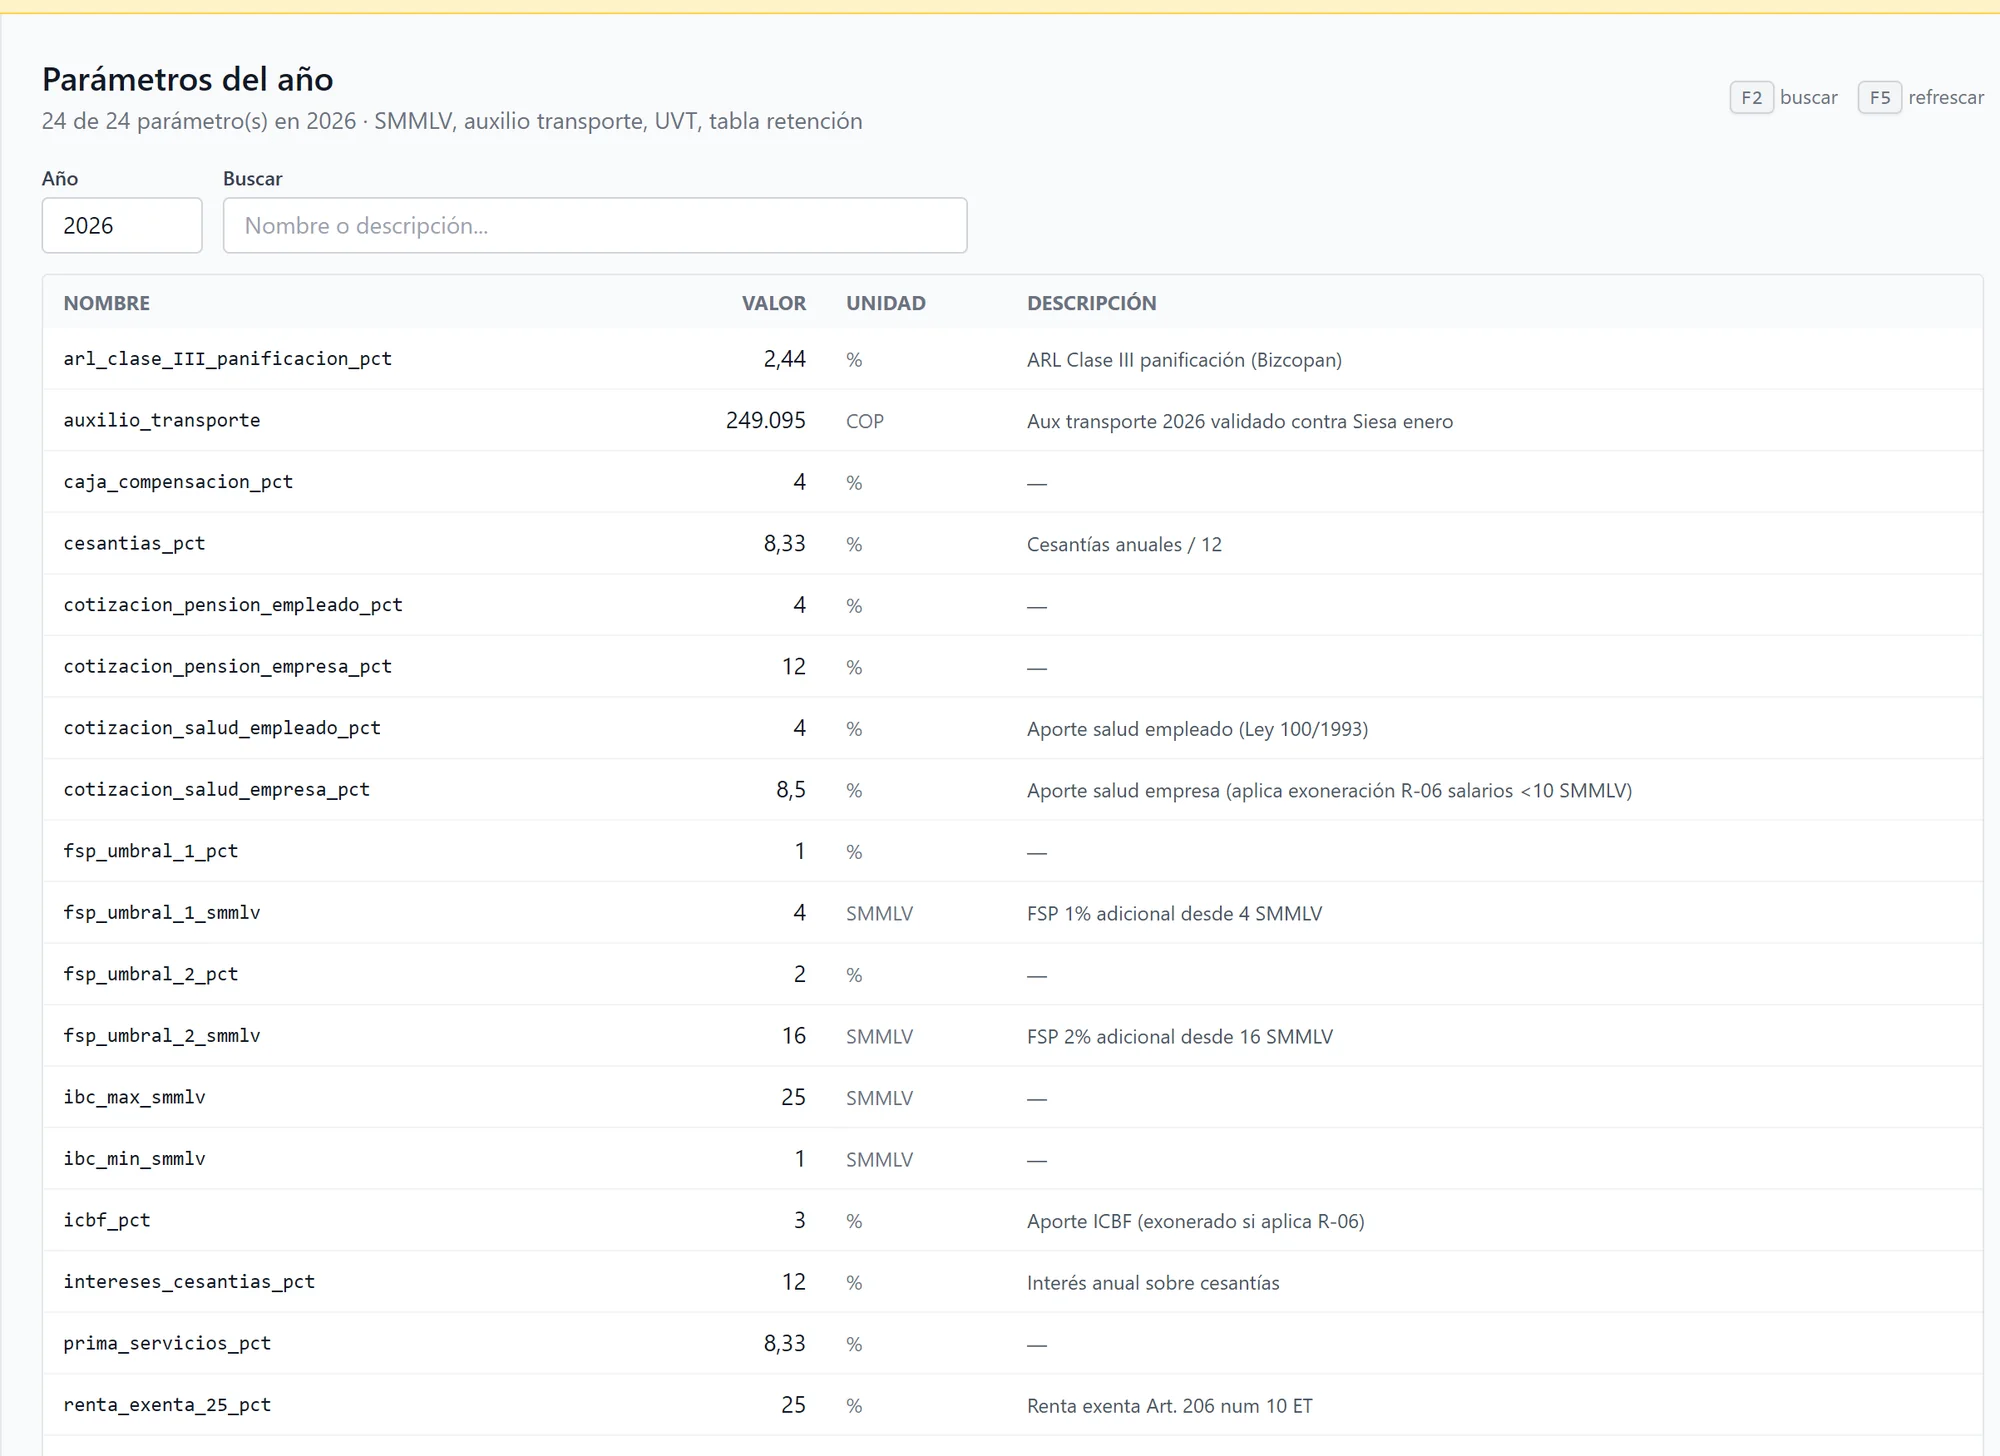
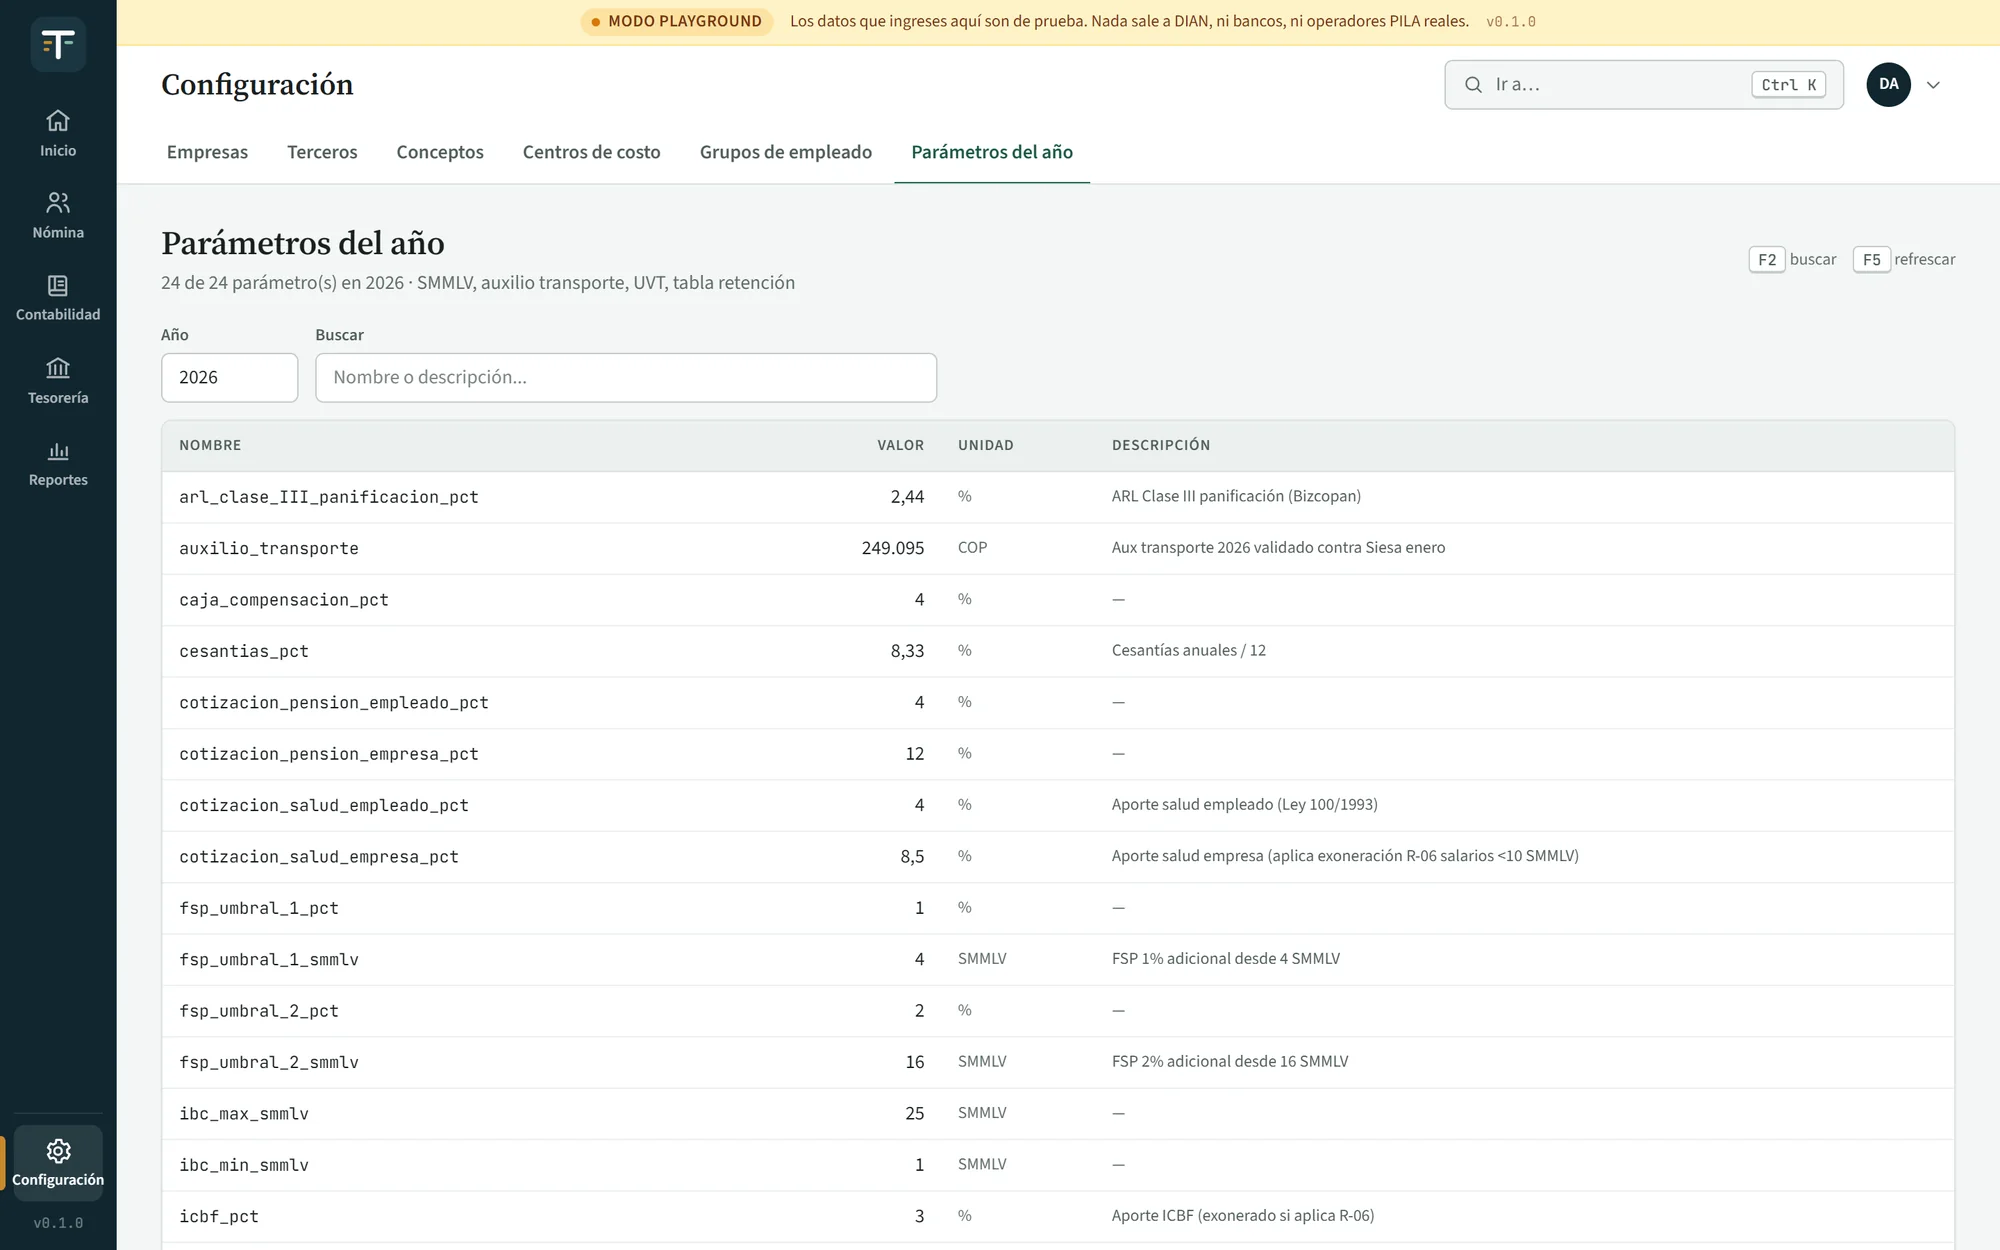
Work: new screenshots of the three redesigned systems
- Payroll & accounting: the "libro mayor" interface — live draft, dark
  vouchers, novelty dialog, and a new gallery (home with the month-end
  route, Ctrl K "Go to…", chart of accounts, yearly parameters, reports).
  Fictional employees on a disposable instance, as before.
- Calzado Leons: the new home dashboard (demo data).
- Louloz Inventario moves from the archive to its own card, with three
  phone screens from the public production view.
- More work grid re-paced for seven cards.
- Chapter titles no longer clip accented capitals (MÁS, MÍ, NÓ…).

diff --git a/src/content/projects.ts b/src/content/projects.ts
@@ -12,9 +12,10 @@ import payrollCover from "./work/payroll-accounting/cover.webp";
 import payrollVoucher from "./work/payroll-accounting/voucher.webp";
 import payrollOvertime from "./work/payroll-accounting/overtime-modal.webp";
 import payrollAccounts from "./work/payroll-accounting/chart-of-accounts.webp";
-import payrollConcepts from "./work/payroll-accounting/concepts.webp";
 import payrollParameters from "./work/payroll-accounting/parameters.webp";
-import payrollList from "./work/payroll-accounting/payrolls.webp";
+import payrollHome from "./work/payroll-accounting/home.webp";
+import payrollGoTo from "./work/payroll-accounting/go-to.webp";
+import payrollReports from "./work/payroll-accounting/reports.webp";
 
 import hotelCover from "./work/hotel-logistico/cover.webp";
 import hotelMobile from "./work/hotel-logistico/mobile.webp";
@@ -46,6 +47,9 @@ import invProducts from "./work/raw-materials-inventory/products.webp";
 import invPrintable from "./work/raw-materials-inventory/printable.webp";
 
 import planningCover from "./work/leons-planning/cover.webp";
+import loulozList from "./work/louloz-inventory/list.webp";
+import loulozFilters from "./work/louloz-inventory/filters.webp";
+import loulozSizes from "./work/louloz-inventory/sizes.webp";
 import groomersCover from "./work/groomers-house/cover.webp";
 import progressDashboard from "./work/myprogress/dashboard.webp";
 import progressStats from "./work/myprogress/stats.webp";
@@ -172,8 +176,8 @@ export const featured: FeaturedProject[] = [
               src: payrollCover,
               position: "left top",
               alt: L(
-                "Live payroll draft for the first fortnight of September: eight employees with hours, earnings, deductions and net pay; one row expanded into its concept lines.",
-                "Borrador vivo de la nómina de la primera quincena de septiembre: ocho empleados con horas, devengos, deducciones y neto; una fila desplegada en sus conceptos.",
+                "Live draft of the first September fortnight in the ledger-style interface: section rail and tabs, eight employees with hours, earnings, deductions and net pay, one row expanded into its concept lines and the totals pinned at the bottom.",
+                "Borrador vivo de la primera quincena de septiembre en la interfaz tipo libro mayor: riel de secciones y pestañas, ocho empleados con horas, devengos, deducciones y neto, una fila desplegada en sus conceptos y los totales fijos abajo.",
               ),
             },
           },
@@ -189,8 +193,8 @@ export const featured: FeaturedProject[] = [
               src: payrollVoucher,
               position: "left top",
               alt: L(
-                "Accounting vouchers generated by the payroll run, with one voucher open showing equal debits and credits.",
-                "Comprobantes contables generados por la liquidación, con uno abierto que muestra débitos y créditos iguales.",
+                "Accounting vouchers generated by the payroll run, in the dark theme: one open with equal debits and credits and its eight lines.",
+                "Comprobantes contables generados por la liquidación, en tema oscuro: uno abierto con débitos y créditos iguales y sus ocho líneas.",
               ),
             },
           },
@@ -200,8 +204,8 @@ export const featured: FeaturedProject[] = [
               src: payrollOvertime,
               position: "left top",
               alt: L(
-                "Dialog to add overtime to an employee: hours, ordinary hourly rate filled automatically, surcharge factor and cost center.",
-                "Diálogo para agregar horas extras a un empleado: horas, valor de la hora ordinaria calculado, factor de recargo y centro de costo.",
+                "Dialog to add a novelty to an employee: earnings and deductions tabs, and for overtime the hours, the ordinary hourly rate filled automatically, the surcharge factor and the cost center.",
+                "Diálogo para agregar una novedad a un empleado: pestañas de devengos y deducciones y, para horas extras, las horas, el valor de la hora ordinaria calculado, el factor de recargo y el centro de costo.",
               ),
             },
           },
@@ -226,6 +230,7 @@ export const featured: FeaturedProject[] = [
         L("DIAN electronic payroll: UBL XML, XAdES signature and transmission tracking", "Nómina electrónica DIAN: XML UBL, firma XAdES y seguimiento de transmisiones"),
         L("PILA flat files with integrity hash, payment batches and bank flat files", "Planillas PILA con hash de integridad, lotes de pago y archivos planos bancarios"),
         L("Employee inquiry by period, opening balances imported from Excel, month-end closing", "Consulta de empleado por periodo, saldos iniciales importados desde Excel y cierre mensual"),
+        L("A ledger-style interface in light and dark: section rail, tabs, grouped processes and a Ctrl K “Go to…” search", "Una interfaz tipo libro mayor en claro y oscuro: riel de secciones, pestañas, procesos agrupados y buscador «Ir a…» con Ctrl K"),
       ],
       engineering: [
         {
@@ -281,14 +286,14 @@ export const featured: FeaturedProject[] = [
       ),
       gallery: [
         {
-          src: payrollList,
-          alt: L("List of payrolls with status badge, period, total and number of employees.", "Lista de nóminas con estado, periodo, total y número de empleados."),
-          caption: L("Payrolls, Siigo-style: a named draft per fortnight.", "Nóminas al estilo Siigo: un borrador con nombre por quincena."),
+          src: payrollHome,
+          alt: L("Home screen in the dark theme: shortcuts to the daily tasks and the seven steps of the month-end route, next to the keyboard shortcuts.", "Pantalla de inicio en tema oscuro: accesos directos a las tareas del día y los siete pasos de la ruta del cierre mensual, junto a los atajos de teclado."),
+          caption: L("Home: shortcuts for the day and the month-end route, step by step.", "Inicio: accesos directos del día y la ruta del cierre mensual, paso a paso."),
         },
         {
-          src: payrollConcepts,
-          alt: L("Catalog of payroll concepts with code, name, type (earning or deduction) and accounting nature.", "Catálogo de conceptos de nómina con código, nombre, tipo (devengo o deducción) y naturaleza contable."),
-          caption: L("41 payroll concepts, keeping Siesa's codes so accountants recognize them.", "41 conceptos de nómina que conservan los códigos de Siesa para que el equipo contable los reconozca."),
+          src: payrollGoTo,
+          alt: L("The “Go to…” palette open over the home screen, listing screens that match the typed letters, each with its section.", "La paleta «Ir a…» abierta sobre el inicio, con las pantallas que coinciden con lo escrito, cada una con su sección."),
+          caption: L("Ctrl K: any screen by name or code, as accountants used to in Siesa.", "Ctrl K: cualquier pantalla por nombre o código, como el equipo contable lo hacía en Siesa."),
         },
         {
           src: payrollAccounts,
@@ -299,6 +304,11 @@ export const featured: FeaturedProject[] = [
           src: payrollParameters,
           alt: L("Yearly parameters for 2026: health, pension and severance percentages, transport allowance and thresholds.", "Parámetros del año 2026: porcentajes de salud, pensión y cesantías, auxilio de transporte y umbrales."),
           caption: L("Yearly legal parameters live in data, not in code.", "Los parámetros legales del año viven en datos, no en el código."),
+        },
+        {
+          src: payrollReports,
+          alt: L("Reports index in the dark theme, grouped into accounting, payroll, controls and reconciliations, and contracts.", "Índice de reportes en tema oscuro, agrupado en contabilidad, nómina, controles y cuadres, y contratos."),
+          caption: L("Reports grouped by what they answer: accounting, payroll, controls.", "Reportes agrupados por lo que responden: contabilidad, nómina, controles."),
         },
       ],
     },
@@ -911,8 +921,8 @@ export const more: SideProject[] = [
       src: planningCover,
       position: "left top",
       alt: L(
-        "Inventory screen in dark mode listing materials with code, category, unit, current stock, minimum and status.",
-        "Pantalla de existencias en modo oscuro con insumos, código, categoría, unidad, stock actual, mínimo y estado.",
+        "Home screen in the dark theme: orders in progress by status, materials below minimum, latest inventory movements and variants still missing a formula.",
+        "Pantalla de inicio en tema oscuro: pedidos en curso por estado, insumos bajo mínimo, últimos movimientos de inventario y variantes que aún no tienen fórmula.",
       ),
     },
   },
@@ -937,6 +947,61 @@ export const more: SideProject[] = [
       ),
     },
 
+  },
+  {
+    slug: "louloz-inventory",
+    name: "Louloz Inventario",
+    title: L("Size-by-size stock for a footwear brand", "Stock talla por talla para una marca de calzado"),
+    summary: L(
+      "The stock tool of a Colombian footwear brand: every reference read size by size, filters by line, gender and availability, three ways to name the products, and editing behind a PIN — in light and dark.",
+      "La herramienta de stock de una marca colombiana de calzado: cada referencia leída talla por talla, filtros por línea, género y disponibilidad, tres formas de nombrar los productos y edición protegida por PIN, en claro y oscuro.",
+    ),
+    kind: CLIENT_SYSTEM,
+    year: "2026",
+    stack: ["Next.js 16", "Tailwind v4", "Drizzle", "Turso"],
+    links: { live: "https://louloz-inventario.vercel.app" },
+    cover: {
+      src: loulozList,
+      position: "center top",
+      alt: L(
+        "Inventory list on a phone: each reference with its total pairs and a row of size chips, empty sizes drawn dashed.",
+        "Lista de inventario en un teléfono: cada referencia con su total de pares y una fila de tallas, con las tallas vacías punteadas.",
+      ),
+    },
+    layout: "phones",
+    extra: [
+      {
+        src: loulozFilters,
+        position: "center bottom",
+        alt: L("Filters sheet with line, gender, stock level and the naming mode.", "Panel de filtros con línea, género, nivel de stock y la forma de nombrar."),
+      },
+      {
+        src: loulozSizes,
+        position: "center top",
+        alt: L("A reference expanded in the dark theme, with the pairs of each size as large tiles.", "Una referencia desplegada en tema oscuro, con los pares de cada talla en fichas grandes."),
+      },
+    ],
+  },
+  {
+    slug: "impostor",
+    name: "Impostor",
+    title: L("Real-time party game", "Juego multijugador en tiempo real"),
+    summary: L(
+      "A social-deduction card game for friends: rooms with six-character codes, secret roles, topics and timed votes, synced over WebSockets.",
+      "Un juego de deducción social para jugar con amigos: salas con código de seis caracteres, roles secretos, temas y votaciones con tiempo, sincronizado por WebSockets.",
+    ),
+    kind: L("Personal project", "Proyecto personal"),
+    year: "2025",
+    stack: ["React 19", "TypeScript", "Socket.IO", "Express 5", "Vite"],
+    links: { live: "https://impostor-client-zeta.vercel.app", code: "https://github.com/CratosCamilo/impostor-client" },
+    cover: {
+      src: impostorCover,
+      position: "center top",
+      alt: L(
+        "An open vote seen by the impostor: their secret card, the five players in the room and a countdown to choose who to eject.",
+        "Una votación abierta vista por el impostor: su carta secreta, los cinco jugadores de la sala y la cuenta regresiva para elegir a quién expulsar.",
+      ),
+    },
   },
   {
     slug: "myprogress",
@@ -968,27 +1033,6 @@ export const more: SideProject[] = [
         alt: L("Body-weight screen with a line chart trending down over two months.", "Pantalla de peso corporal con una línea que baja a lo largo de dos meses."),
       },
     ],
-  },
-  {
-    slug: "impostor",
-    name: "Impostor",
-    title: L("Real-time party game", "Juego multijugador en tiempo real"),
-    summary: L(
-      "A social-deduction card game for friends: rooms with six-character codes, secret roles, topics and timed votes, synced over WebSockets.",
-      "Un juego de deducción social para jugar con amigos: salas con código de seis caracteres, roles secretos, temas y votaciones con tiempo, sincronizado por WebSockets.",
-    ),
-    kind: L("Personal project", "Proyecto personal"),
-    year: "2025",
-    stack: ["React 19", "TypeScript", "Socket.IO", "Express 5", "Vite"],
-    links: { live: "https://impostor-client-zeta.vercel.app", code: "https://github.com/CratosCamilo/impostor-client" },
-    cover: {
-      src: impostorCover,
-      position: "center top",
-      alt: L(
-        "An open vote seen by the impostor: their secret card, the five players in the room and a countdown to choose who to eject.",
-        "Una votación abierta vista por el impostor: su carta secreta, los cinco jugadores de la sala y la cuenta regresiva para elegir a quién expulsar.",
-      ),
-    },
   },
   {
     slug: "preflop-viewer",
@@ -1040,12 +1084,6 @@ export const archive: ArchiveItem[] = [
     name: "Colegio Travesuras",
     what: L("Lunch-program management for a kindergarten: daily log, payments, debts and fortnightly closings", "Gestión de loncheras para un jardín infantil: registro diario, pagos, deudas y cierres quincenales"),
     tech: ["Next.js 16", "Turso", "Auth.js"],
-  },
-  {
-    year: "2026",
-    name: "Louloz Inventario",
-    what: L("Stock viewer for a footwear brand, with PIN-gated editing", "Visor de inventario para una marca de calzado, con edición protegida por PIN"),
-    tech: ["Next.js 16", "Tailwind v4", "Drizzle"],
   },
   {
     year: "2026",

diff --git a/src/components/home/MoreWork.tsx b/src/components/home/MoreWork.tsx
@@ -7,8 +7,8 @@ import { Chapter } from "@/components/Chapter";
 import { t } from "@/lib/i18n";
 import styles from "./MoreWork.module.css";
 
-/** Column spans per row, in reading order. The first row meets at a slanted gutter. */
-const SPANS = [7, 5, 5, 7, 5, 7];
+/** Column spans per row, in reading order. The first row meets at a slanted gutter; the last row has three panels. */
+const SPANS = [7, 5, 5, 7, 4, 4, 4];
 
 export function MoreWork({ locale, dict }: { locale: Locale; dict: Dictionary }) {
   return (

diff --git a/src/app/globals.css b/src/app/globals.css
@@ -642,9 +642,12 @@ p {
 }
 
 /* line-by-line headline reveal */
+/* The clip box reaches above the cap height so accented capitals (Á, Í, Ó) aren't cut. */
 .line {
   display: block;
   overflow: hidden;
+  padding-top: 0.16em;
+  margin-top: -0.16em;
   padding-bottom: 0.04em;
   margin-bottom: -0.04em;
 }
